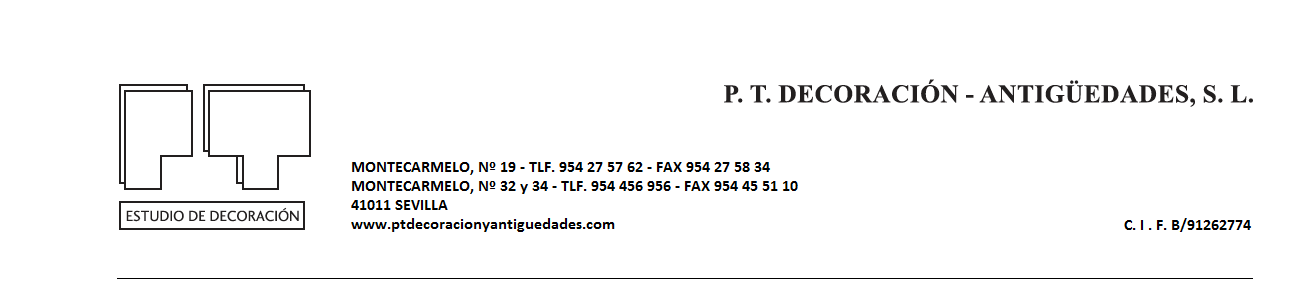
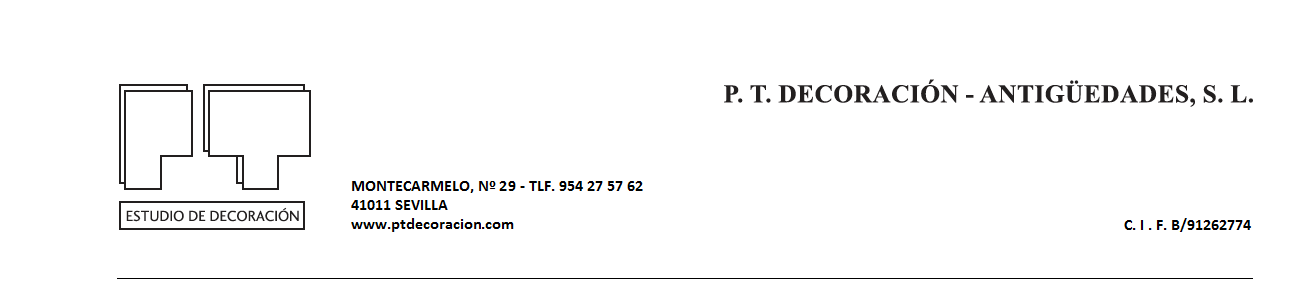
Ability to print electroninc invoives for overview invoices. Update header image

Changed region(s): [[0.3739, 0.596, 0.6231, 0.6556], [0.2492, 0.5364, 0.5919, 0.596], [0.3427, 0.7152, 0.4673, 0.7748]]

diff --git a/imprimirFactura.php b/imprimirFactura.php
@@ -105,7 +105,7 @@
 						<tr class="datosCliente3"><td class="margen-lateral"></td><td colspan="2">'.$row3['Localidad'].' '.$CP.'&nbsp&nbsp&nbsp&nbsp&nbsp&nbsp&nbsp&nbsp&nbsp&nbsp&nbsp '.$NIF.'</td><td class="margen-lateral"></td></tr></table>
 						<table class="tabla-factura">';
 				}
-				else{
+				else {
 					echo '<table class="tabla-imagen-cabecera"><tr><td><img class ="imagenFactura" src="./Imagenes/cabeceraFacturaElectronica.png" alt="La imagen no se ha podido cargar"></img></td><tr></table>';
 					echo '<table class="tabla-factura-arriba-electronica">';
 					echo '<tr class="datosCliente1"><td class="margen-lateral"></td><td class="ancho2">'.$cadenaTituloEtc.'</td><td class="alineado-derecha"> FRA '.$numFac.'</td><td class="margen-lateral"></td></tr>

diff --git a/imprimirFacturaResumenPrev.php b/imprimirFacturaResumenPrev.php
@@ -13,7 +13,8 @@
 		  <p class="centrado">
 		  <label for="comentario"><b>Comentario:</b></label><br />
 		  <textarea name="comentario" rows="5" cols="40"></textarea><br />
-		  <input name="sigPaso" type="submit" value="Generar" class="boton" />
+		  <input name="electronica" type="submit" value="Electronica" class="boton"/>
+		  <input name="normal" type="submit" value="Normal" class="boton"/>
 		  </p>
 		  </form>';
 	  
